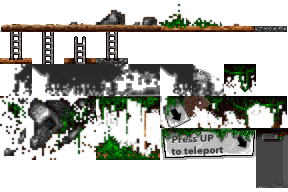
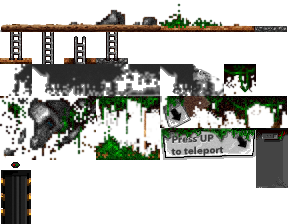
Lift added
Added lift object

diff --git a/Classes/LoadrunnerScene.m b/Classes/LoadrunnerScene.m
@@ -53,7 +53,7 @@
     self = [super init];
     if (!self) return(nil);
     
-    debugSpeed = YES;
+    debugSpeed = NO;//YES;
     
     
     //set screen width and height variables
@@ -101,6 +101,7 @@
     [[CCSpriteFrameCache sharedSpriteFrameCache] addSpriteFramesWithFile: @"teleport_light.plist"];
     [[CCSpriteFrameCache sharedSpriteFrameCache] addSpriteFramesWithFile: @"mine.plist"];
     [[CCSpriteFrameCache sharedSpriteFrameCache] addSpriteFramesWithFile: @"explosion.plist"];
+    [[CCSpriteFrameCache sharedSpriteFrameCache] addSpriteFramesWithFile: @"lift.plist"];
 
     
     //load game map (should be xml file in the future
@@ -175,7 +176,6 @@
     }
     
     [_monster1 DEBUGset];
-    
     
     [self addChild:_levelTexture];
     
@@ -342,6 +342,12 @@
     //update the main scene
     u_int32_t tile = [_levelMap getTileAtPosition:playerPos];
     CGPoint pos = [_levelMap getTilePosWithPoint:playerPos];
+    
+    
+    //if runner is in a lift
+    //check if player position is in a lift position
+    //player.position.y = lift.position.y
+    //return
     
     //check if the player should fall
     if((![runner isJumping] && [_levelMap getTileAtPosition:[runner position]] == 0 && playerPos.y>31) || (tile==11 && (playerPos.x < pos.x + 4 || playerPos.x > pos.x + 28))) {

diff --git a/Classes/RunnerTiledMap.m b/Classes/RunnerTiledMap.m
@@ -54,10 +54,21 @@
             Torch* torch = [[Torch alloc] initWithName:[objects[i] valueForKey:@"file"] andSound:[objects[i] valueForKey:@"sound"] andPosition:ccp(x,y)];
             [self addChild:torch];
             [lightSources addObject: torch];
+        } else if([[objects[i] valueForKey:@"type"] isEqual: @"lift"]) {
+            CCLOG(@"Add lift(%ld,%ld,%@)",(long)x,y,[objects[i] valueForKey:@"name"]);
+            //fix lift position;
+            CGPoint coord = [self convertToMapCoord:ccp(x,y)];
+            CGPoint fcoord = [self convertToSceneCoord:coord];
+            fcoord.x += 3;
+            fcoord.y += 18;
+            CCLOG(@"Map coord: %f, %f",fcoord.x, fcoord.y);
+            
+            Lift* lift = [[Lift alloc] initWithPosition:fcoord];
+            [self addChild: lift z:10];
+            [lightSources addObject:lift];
         } else if([[objects[i] valueForKey:@"type"] isEqual:@"teleport"]) {
             CGPoint coord = [self convertToMapCoord:ccp(x,y)];
             CCLOG(@"Add teleport(%f,%f)",coord.x,coord.y);
-
         
             Teleport* tel = [[Teleport alloc] initAtPosition:coord withName:[objects[i] valueForKey:@"name"]];
             //add sprite position on the scene

diff --git a/Classes/Lift.m b/Classes/Lift.m
@@ -1,0 +1,39 @@
+//
+//  Lift.m
+//  Loderunners
+//
+//  Created by Igor on 28/12/14.
+//  Copyright (c) 2014 Cloud2Logic. All rights reserved.
+//
+
+#import "Lift.h"
+
+@implementation Lift
+{
+    CCSprite* lightmap;
+}
+
+-(id) init {
+    self = [super initWithSpriteFrame:[[CCSpriteFrameCache sharedSpriteFrameCache] spriteFrameByName: @"lift0.png"]];
+    if(self) {
+        lightmap = [CCSprite spriteWithImageNamed:@"lift-lightmap.png"];
+        [lightmap setAnchorPoint:ccp(0,1)];
+        [self setAnchorPoint:ccp(0,1)];
+    }
+    return self;
+}
+
+-(id) initWithPosition:(CGPoint) position {
+    self = [self init];
+    if(self == nil) return nil;
+    
+    [self setPosition: position];
+    [lightmap setPosition:position];
+    return self;
+}
+
+-(CCSprite*) getLightMap {
+    return lightmap;
+}
+
+@end

diff --git a/Classes/ControlLayer.m b/Classes/ControlLayer.m
@@ -55,7 +55,7 @@
         ControlButton *actionButton = [ControlButton controlButtonWithImage:@"action-hd.png"];
         [actionButton setPosition:ccp(25,25)];
         [actionButton setButtonDownTarget:@selector(actionButtonDown) fromObject:self];
-        [actionButton setButtonUpTarget:@selector(buttonUp) fromObject:self];
+        [actionButton setButtonUpTarget:@selector(actionButtonUp) fromObject:self];
         [self addChild:actionButton];
         
     }
@@ -163,14 +163,14 @@
 -(void) actionButtonDown {
     [_mainRunner stop];
     [(Player*)_mainRunner duck];
+}
+
+-(void) actionButtonUp {
+    [_mainRunner stop];
     CGPoint pos = [_mainRunner position];
     pos.y -= 16;
     Mine* mine = [[Mine alloc] initWithPosition: pos];
     [_mainMap addChild: mine z: 5] ;
-}
-
--(void) actionButtonUp {
-
 }
 
 

diff --git a/Classes/Lift.h b/Classes/Lift.h
@@ -1,0 +1,20 @@
+//
+//  Lift.h
+//  Loderunners
+//
+//  Created by Igor on 28/12/14.
+//  Copyright (c) 2014 Cloud2Logic. All rights reserved.
+//
+
+#import "cocos2d.h"
+#import "cocos2d-ui.h"
+
+#import "CCSprite.h"
+#import "LightSource.h"
+
+@interface Lift : CCSprite <LightSource>
+
+-(id) init;
+-(id) initWithPosition: (CGPoint) position;
+
+@end

diff --git a/Classes/RunnerTiledMap.h b/Classes/RunnerTiledMap.h
@@ -11,6 +11,7 @@
 
 #import "Torch.h"
 #import "Teleport.h"
+#import "Lift.h"
 
 #import "Message.h"
 
